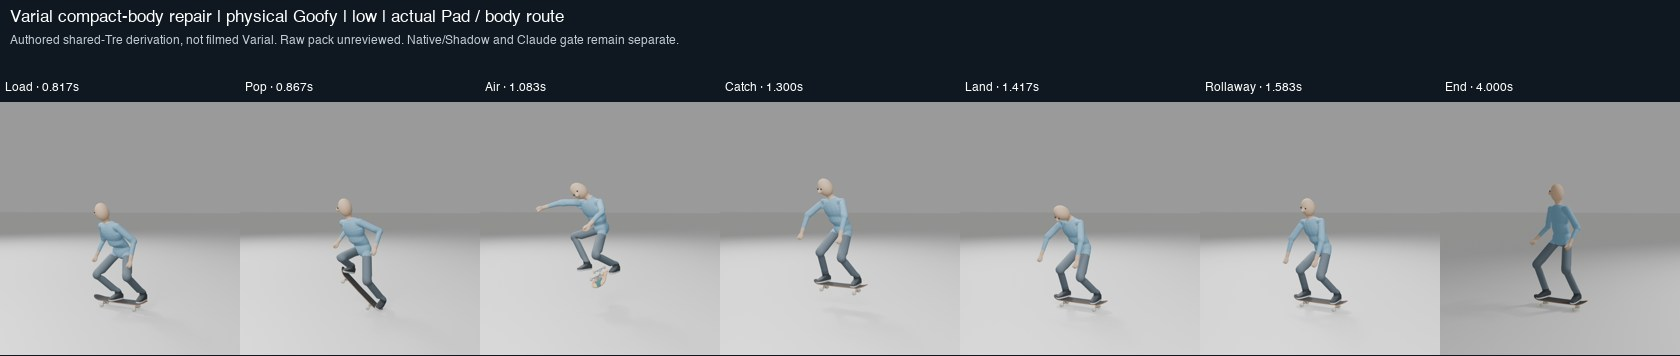
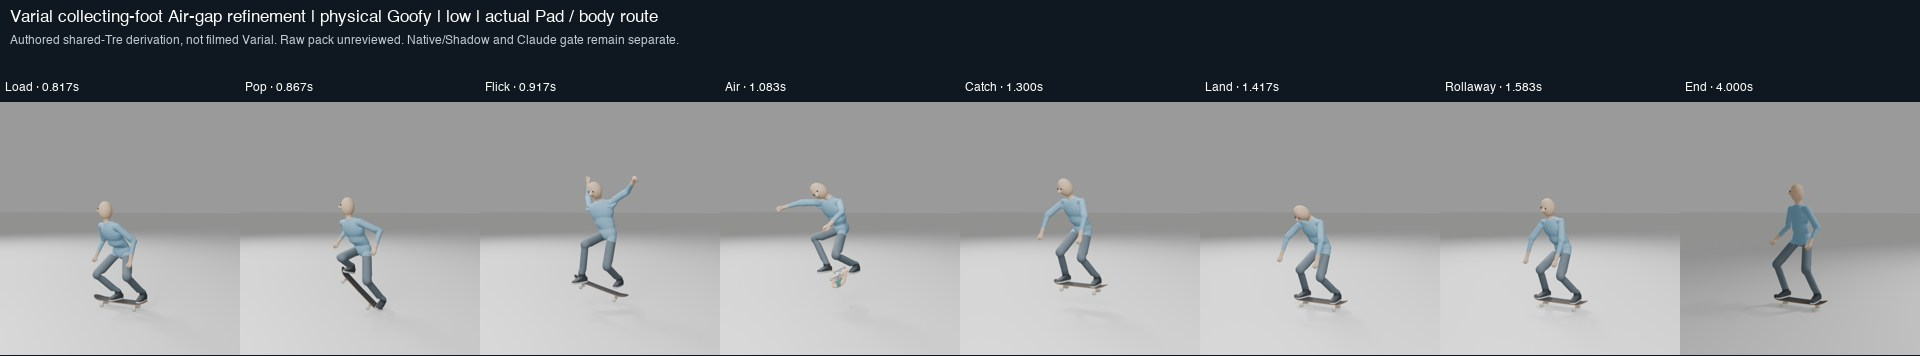
Refresh Varial air-gap before-after and complete phase review

diff --git a/assets/authored/animation/varial-kickflip-derived/README.md b/assets/authored/animation/varial-kickflip-derived/README.md
@@ -51,3 +51,18 @@ a foot where the deck passes underneath; its minimum separation and fixed-leg
 reach checks are unchanged. Board keys, carrier flight, grounded press, final
 catch and recovery stay fixed. This is a small authored refinement of the
 shared Tre derivation, with no filmed Varial claim or raw approval.
+
+The refreshed original-rig comparisons use the same runtime and camera for
+the prior compact source and this refinement. Air close-ups show the smaller
+collecting-foot gap; the adjacent Catch views retain the accepted pose:
+
+- [Normal Regular](../../../../docs/review-media/2026-11-01-varial-compact/normal-regular-air-catch-before-after.jpg) and [full phases](../../../../docs/review-media/2026-11-01-varial-compact/normal-regular-phases.jpg).
+- [Normal Goofy](../../../../docs/review-media/2026-11-01-varial-compact/normal-goofy-air-catch-before-after.jpg) and [full phases](../../../../docs/review-media/2026-11-01-varial-compact/normal-goofy-phases.jpg).
+- [Lower Regular](../../../../docs/review-media/2026-11-01-varial-compact/low-regular-air-catch-before-after.jpg) and [full phases](../../../../docs/review-media/2026-11-01-varial-compact/low-regular-phases.jpg).
+- [Lower Goofy](../../../../docs/review-media/2026-11-01-varial-compact/low-goofy-air-catch-before-after.jpg) and [full phases](../../../../docs/review-media/2026-11-01-varial-compact/low-goofy-phases.jpg).
+
+[Review receipt](../../../../docs/review-media/2026-11-01-varial-compact/review-manifest.json).
+Private viewer: `http://127.0.0.1:63761/varial-air-gap/`. Four actual managed
+cases reached ordinary riding at 4 s and replayed at 1×/¼× without browser
+errors. These are offline checks with controlled bindings; native Rust/Shadow
+and Claude’s independent library verdict remain separate.
